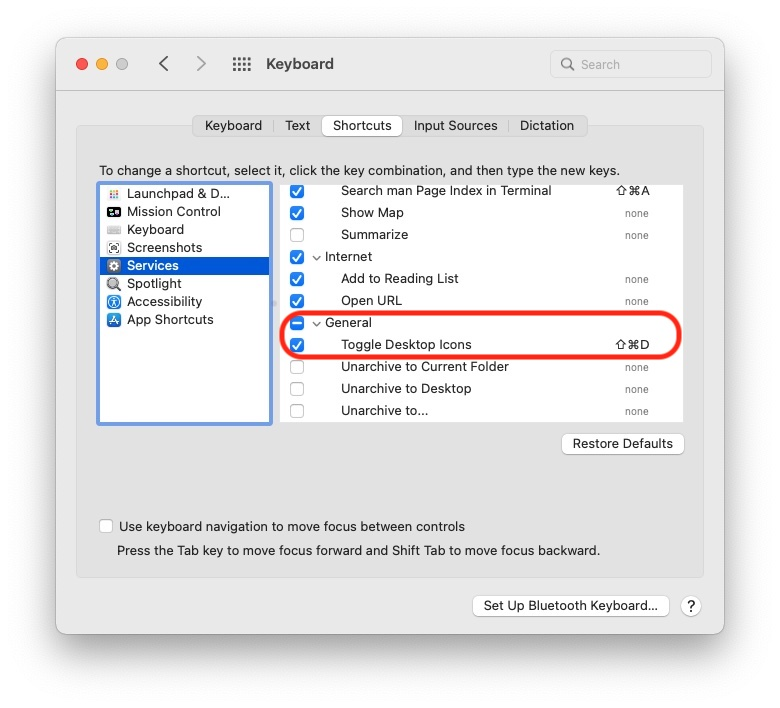
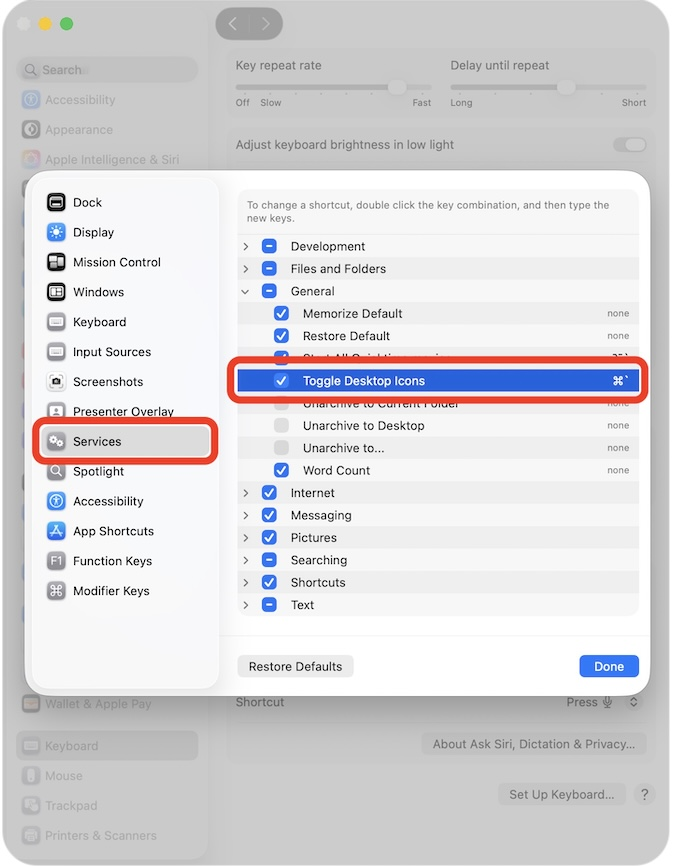
update Help for macOS 26.x

diff --git a/HideIcons/Resources/HideIcons.help/Contents/Resources/en.lproj/Welcome.html b/HideIcons/Resources/HideIcons.help/Contents/Resources/en.lproj/Welcome.html
@@ -28,8 +28,8 @@
            <p class="Left Normal">
 <img src="Welcome.jpg" alt="" >
 </p>
-                 <p class="Left Normal">Notice the default key combination (this can be changed, see below).</p>
-	<ul><li>)	As a menu item, 
+                 <p class="Left Normal">Notice the default key combination was changed (see below).</p>
+	<ul><li>)	As a menu item,
 <img src="Welcome1.jpg" alt="" >
 </li></ul>
               <p class="Left Normal">
@@ -41,15 +41,20 @@
 </b><p class="Left Normal">If <i>Check for changing Desktop</i> is set to anything other than <i>Never</i>, <i>Hide Icons</i> will update the Desktop every time interval specified. This allows for changing Desktops.  </p>
 </b><p class="Left Normal"><i>Change menu</i> allows you to hide the menu item (replaces it with a blank icon) or to completely remove the menu from the menu bar. For the latter case, one can still use Services to toggle showing/hiding icons. To get the menu back, simply re-run <i>Hide Icons</i>.  </p>
 </b><p class="Left Normal"><i>Set Desktop wallpaper</i> allows you to use either the actual Desktop wallpaper or to use a custom color wallpaper. Either for all Desktops or for individual Desktops. If you have either more than one display or more than one Space, you have multiple Desktops. </p>
-</b><p class="Left Normal"><i>Refresh Desktop</i> forces an update of all Desktops across all displays and Spaces. This option will also cause <i>Hide Icons</i> to forget which Desktop goes with which Space (see below). This is essentially a restart of <i>Hide Icons</i>. </p>
+</b><p class="Left Normal"><i>Force Desktop refresh</i> forces an update of all Desktops across all displays and Spaces. This option will also cause <i>Hide Icons</i> to forget which Desktop goes with which Space (see below). This is essentially a restart of <i>Hide Icons</i>. </p>
 </b><p class="Left Normal"><i>Check for update...</i> reaches out (via https) to see if there is a new version of <i>Hide Icons</i>. If there is, this menu item changes to <i>Download</i>. If this is selected, then a new version is downloaded to the Downloads folder (also via https) and then the menu item changes to <i>Locate update</i>. Selecting this will present a Finder window with the update highlighted. It is up to you to quit <i>Hide Icons</i> and repace it with this updated version. Please note, the downloaded zip file will be moved to the trash eventually along with any previous version of <i>Hide Icons</i>. </p>
 <p class="Left Normal">
 
 <p class="Left Normal"><b>2) Services</p>
-</b><p class="Left Normal"><i>Hide Icon</i> can be controlled by Services. You may have to got to >System Preferences…>Keyboard, select Shortcuts, select Services on the left and check Toggle Desktop Icons on the right.  You can also select your own shortcut. </p>
+</b><p class="Left Normal"><i>Hide Icon</i> can be controlled by Services. You may have to got to >System Settings…>Keyboard, select Keyboard Shortcuts. </p>
+<p class="Left Normal">
+<img src="Welcome3a.jpg" alt="" >
+</p>
+</b><p class="Left Normal">Select Services on the left, open General on the right and check Toggle Desktop Icons on the right.  You can also select your own shortcut by double-clicking on the shortcut. </p>
 <p class="Left Normal">
 <img src="Welcome3.jpg" alt="" >
 </p>
+
 <p class="Left Normal">If Toggle Desktop Icons is not present, make sure <i>Hide Icons</i> is in the Applications folder and you will need to logout/login for macOS to see the Service.</p>
 
 <p class="Left Normal"><b>3) Where is the menu (</b>
@@ -62,7 +67,7 @@
 <p class="Left Normal">If command key (⌘) is held when <i>Hide Icons</i> starts, the user defined preferences are overwritten with default preferences- useful if you chose a preference set you don't like. </p>
 
 <p class="Left Normal"><b>4) Requirements</b></p>
-<p class="Left Normal"><i>Hide Icon</i> was written in Swift with Xcode 14.2. It was compiled to support macOS 10.13 (High Sierra) through 13.x (Ventura). Versions before 10.14 (Mojave) can not detect Dark Mode switching.</p>
+<p class="Left Normal"><i>Hide Icon</i> was written in Swift. It was compiled to support macOS 10.13 (High Sierra) through 26.3 (Tahoe). Versions before 10.14 (Mojave) can not detect Dark Mode switching.</p>
 <b>
 <p class="Left Normal">5) Details</b></p>
 <p class="Left Normal"><i>Hide Icon</i> doesn’t touch the Desktop icons. It simply takes a picture of the Desktop (without the icons) and displays this picture just above the real Desktop giving the illusion that the icons have vanished. THEY HAVE NOT. If you open a Finder window, you can easily navigate to Desktop. From there you can add, remove and manipulate items on the Desktop. You must either Show Desktop Icons or quit <i>Hide Icons</i> to have the usual Desktop back.</p>

diff --git a/HideIcons/Resources/HideIcons.help/Contents/Resources/en.lproj/Contact_and_version_hist.html b/HideIcons/Resources/HideIcons.help/Contents/Resources/en.lproj/Contact_and_version_hist.html
@@ -18,7 +18,7 @@
 <p class="Left Normal">Hide Icons’ home is located at http://www.parker9.com/script.html. Furthermore, email can be sent to HideIcon@parker9.com</p>
 
 <p class="Left Normal">Version History</p>
-<p class="Left Normal">— 1 March 2026, v2.2.3- Fix for slightly blurred Desktop image.</p>
+<p class="Left Normal">— 1 March 2026, v2.2.3- Fix for slightly blurred Desktop image. Udated Help.</p>
 <p class="Left Normal">— 5 February 2026, v2.2.2- At start, toggle state is restored.</p>
 <p class="Left Normal">— 25 April 2024, v2.2.1- Fixed a problem when repeated typing of shortcut (via Services) did not work. </p>
 <p class="Left Normal">— 17 September 2023, v2.2- Reduced memory useage and for non Mac App store version. Add "Check for update..." to menu and offer to download if available. </p>
